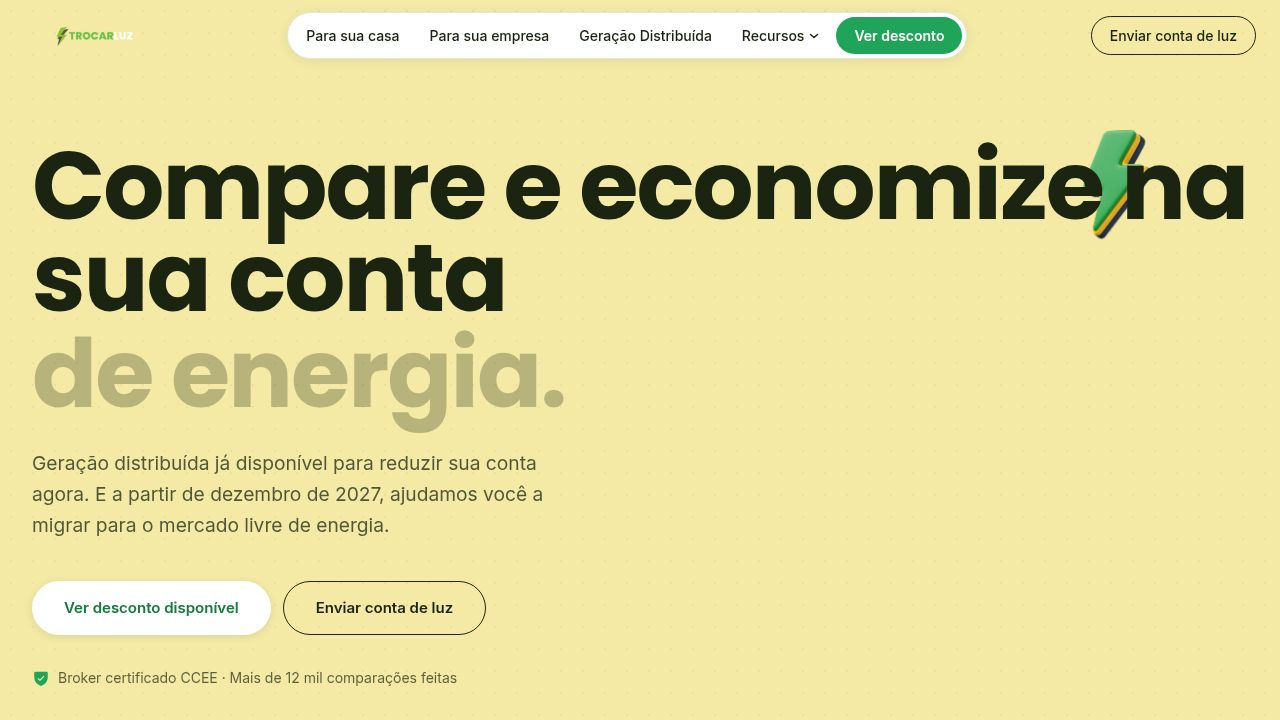
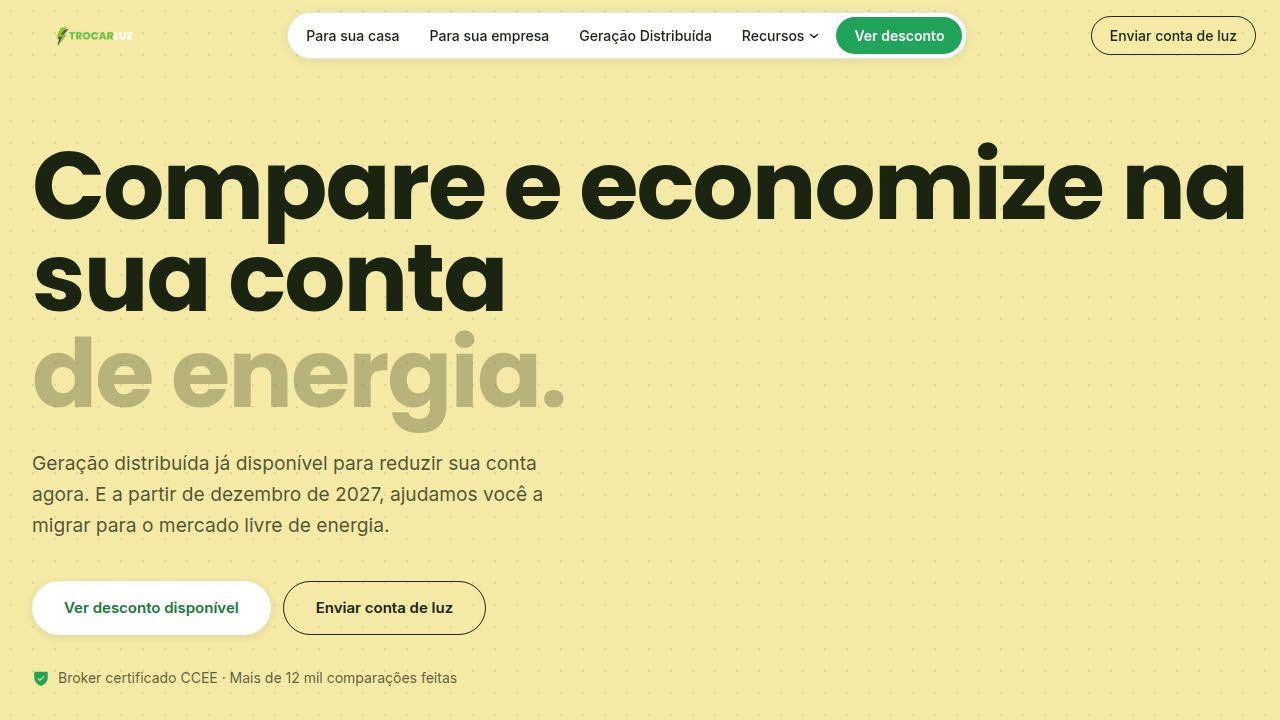
Enhance homepage with dynamic photo collage and improved visual effects
Refactor the homepage's "Por que a TrocarLuz?" section to include a dynamic, multi-axis floating collage of photos and objects using Framer Motion, along with updated CSS for responsive visibility and adjustments to the hero section's dot texture.

Replit-Commit-Author: Agent
Replit-Commit-Session-Id: d264dfc3-22c9-4384-948f-46028f1584a7
Replit-Commit-Checkpoint-Type: full_checkpoint
Replit-Commit-Event-Id: 4aaa1cc5-93b2-4487-a102-46e93dd1459f
Replit-Commit-Screenshot-Url: https://storage.googleapis.com/screenshot-production-us-central1/b2442f56-2080-46f6-a758-ab811e9c51e7/d264dfc3-22c9-4384-948f-46028f1584a7/vYvxFlC
Replit-Helium-Checkpoint-Created: true

Changed region(s): [[0.8438, 0.1833, 0.9062, 0.3361], [0.0938, 0.825, 0.1875, 0.8556], [0.25, 0.825, 0.2812, 0.8556]]

diff --git a/artifacts/trocarluz/src/pages/home.tsx b/artifacts/trocarluz/src/pages/home.tsx
@@ -19,7 +19,7 @@ import { Reveal } from "@/components/reveal";
 
 /* ── Dot texture helper ──────────────────────────────────────────── */
 const DOT_TEXTURE: React.CSSProperties = {
-  backgroundImage: "radial-gradient(circle, rgba(26,36,16,0.05) 1px, transparent 1px)",
+  backgroundImage: "radial-gradient(rgba(26,36,16,0.10) 1.5px, transparent 1.5px)",
   backgroundSize: "22px 22px",
 };
 
@@ -151,6 +151,95 @@ function FloatImg({
         }}
       />
     </div>
+  );
+}
+
+/* ── CollageTile — floating photo/object for Payard-style "Por que" ─ */
+interface CollageTileProps {
+  src: string;
+  size: string;
+  baseRot: number;
+  delay: number;
+  duration: number;
+  parallaxRange: [number, number];
+  style?: React.CSSProperties;
+  className?: string;
+  energetic?: boolean;
+  isPhoto?: boolean;
+}
+
+function CollageTile({
+  src,
+  size,
+  baseRot,
+  delay,
+  duration,
+  parallaxRange,
+  style,
+  className,
+  energetic = false,
+  isPhoto = false,
+}: CollageTileProps) {
+  const prefersReduced = useReducedMotion();
+  const wrapRef = useRef<HTMLDivElement>(null);
+  const { scrollYProgress } = useScroll({
+    target: wrapRef,
+    offset: ["start end", "end start"],
+  });
+  const scrollY = useTransform(scrollYProgress, [0, 1], parallaxRange);
+
+  const floatAnim = prefersReduced
+    ? {}
+    : energetic
+    ? {
+        y: [0, -22, 0, -12, 0],
+        x: [0, 10, 0, -6, 0],
+        rotate: [baseRot - 5, baseRot + 5, baseRot - 3, baseRot + 4, baseRot - 5],
+        scale: [1, 1.05, 1, 1.03, 1],
+      }
+    : {
+        y: [0, -14, 0, -8, 0],
+        x: [0, 6, 0, -5, 0],
+        rotate: [baseRot - 2, baseRot + 2.5, baseRot - 1, baseRot + 1.5, baseRot - 2],
+        scale: [1, 1.03, 1, 1.02, 1],
+      };
+
+  const floatTransition = prefersReduced
+    ? {}
+    : { duration, ease: "easeInOut" as const, repeat: Infinity, delay };
+
+  return (
+    <motion.div
+      ref={wrapRef}
+      className={className}
+      style={{
+        position: "absolute",
+        width: size,
+        height: size,
+        zIndex: 1,
+        ...(prefersReduced ? {} : { y: scrollY }),
+        ...style,
+      }}
+    >
+      <motion.img
+        src={src}
+        alt=""
+        loading="lazy"
+        decoding="async"
+        animate={floatAnim}
+        transition={floatTransition}
+        style={{
+          width: "100%",
+          height: "100%",
+          objectFit: "cover",
+          borderRadius: isPhoto ? "22%" : "20px",
+          boxShadow: "0 18px 40px rgba(0,0,0,.12)",
+          display: "block",
+          transformBox: "fill-box",
+          transformOrigin: "center",
+        }}
+      />
+    </motion.div>
   );
 }
 
@@ -1445,91 +1534,79 @@ export default function Home() {
         }}
       >
         <div style={{ maxWidth: "var(--container)", margin: "0 auto" }}>
-          {/* Heading + ghost word + floating objects */}
-          <div style={{ position: "relative", marginBottom: "clamp(48px, 7vw, 72px)" }}>
-            {/* Ghost "Economia" — parallaxed */}
-            <motion.div
-              aria-hidden="true"
-              style={{
-                position: "absolute",
-                bottom: "-20px",
-                left: "50%",
-                x: "-50%",
-                y: economiaY,
-                fontFamily: "var(--app-font-display)",
-                fontWeight: 700,
-                fontSize: "clamp(5rem, 18vw, 14rem)",
-                color: "var(--env-soft)",
-                lineHeight: 1,
-                letterSpacing: "-0.03em",
-                whiteSpace: "nowrap",
-                pointerEvents: "none",
-                zIndex: 0,
-              }}
-            >
-              Economia
-            </motion.div>
+          {/* Collage container — tiles in outer ring, heading centered (Payard style) */}
+          <div
+            style={{
+              position: "relative",
+              minHeight: "clamp(320px, 50vw, 480px)",
+              display: "flex",
+              alignItems: "center",
+              justifyContent: "center",
+              marginBottom: "clamp(48px, 7vw, 72px)",
+            }}
+          >
+            {/* ── 4 corner tiles — visible on all sizes ── */}
+            <CollageTile
+              src="/img/person-11.webp"
+              size="clamp(96px,16vw,200px)"
+              baseRot={-4}
+              delay={0.2}
+              duration={7.5}
+              parallaxRange={[35, -45]}
+              isPhoto
+              style={{ top: 0, left: 0 }}
+            />
+            <CollageTile
+              src="/img/hero-empresa.webp"
+              size="clamp(96px,14vw,165px)"
+              baseRot={5}
+              delay={1.2}
+              duration={8}
+              parallaxRange={[20, -50]}
+              style={{ top: 0, right: 0 }}
+            />
+            <CollageTile
+              src="/img/hero-casa.webp"
+              size="clamp(96px,13vw,158px)"
+              baseRot={4}
+              delay={1.7}
+              duration={7}
+              parallaxRange={[25, -45]}
+              style={{ bottom: 0, left: 0 }}
+            />
+            <CollageTile
+              src="/img/obj-mercado.webp"
+              size="clamp(96px,13vw,155px)"
+              baseRot={-3}
+              delay={0.9}
+              duration={8.5}
+              parallaxRange={[45, -35]}
+              style={{ bottom: 0, right: 0 }}
+            />
+            {/* ── Accent objects — hide on mobile ── */}
+            <CollageTile
+              src="/img/obj-raio.webp"
+              size="clamp(70px,7.5vw,90px)"
+              baseRot={8}
+              delay={0}
+              duration={7}
+              parallaxRange={[30, -30]}
+              energetic
+              className="collage-hide-mobile"
+              style={{ top: "clamp(150px,24vw,190px)", left: "clamp(80px,14vw,200px)" }}
+            />
+            <CollageTile
+              src="/img/obj-fazenda.webp"
+              size="clamp(80px,9vw,110px)"
+              baseRot={-5}
+              delay={1.4}
+              duration={7}
+              parallaxRange={[20, -30]}
+              className="collage-hide-mobile"
+              style={{ bottom: "clamp(150px,24vw,190px)", right: "clamp(80px,14vw,200px)" }}
+            />
 
-            {/* 4 corner objects — strictly in outer corners, clear of heading */}
-            {[
-              {
-                src: "/img/obj-raio.webp",
-                size: 100,
-                floatVariant: "a" as const,
-                delay: "0s",
-                strength: 14,
-                pos: { top: "24px", left: "24px" },
-                rot: "-8deg",
-              },
-              {
-                src: "/img/hero-empresa.webp",
-                size: 110,
-                floatVariant: "b" as const,
-                delay: "0.7s",
-                strength: 18,
-                pos: { top: "24px", right: "24px" },
-                rot: "6deg",
-              },
-              {
-                src: "/img/hero-casa.webp",
-                size: 88,
-                floatVariant: "a" as const,
-                delay: "1.4s",
-                strength: 10,
-                pos: { bottom: "24px", left: "24px" },
-                rot: "-4deg",
-              },
-              {
-                src: "/img/obj-mercado.webp",
-                size: 96,
-                floatVariant: "b" as const,
-                delay: "0.4s",
-                strength: 16,
-                pos: { bottom: "24px", right: "24px" },
-                rot: "8deg",
-              },
-            ].map((obj, i) => (
-              <FloatImg
-                key={i}
-                src={obj.src}
-                alt=""
-                width={obj.size}
-                height={obj.size}
-                floatVariant={obj.floatVariant}
-                animDelay={obj.delay}
-                parallaxStrength={obj.strength}
-                className="pq-obj"
-                style={{
-                  position: "absolute",
-                  zIndex: 1,
-                  transform: `rotate(${obj.rot})`,
-                  pointerEvents: "none",
-                  ...obj.pos,
-                }}
-              />
-            ))}
-
-            {/* Heading — centred, above ghost */}
+            {/* Heading — centered, always above tiles */}
             <Reveal>
               <h2
                 id="porque-heading"
@@ -1542,9 +1619,9 @@ export default function Home() {
                   color: "var(--ink)",
                   letterSpacing: "-0.02em",
                   textAlign: "center",
-                  padding: "clamp(20px, 4vw, 40px) clamp(120px, 18vw, 220px)",
+                  padding: "clamp(16px, 3vw, 40px) clamp(80px, 14vw, 220px)",
                   lineHeight: 1.1,
-                  marginBottom: 0,
+                  margin: 0,
                 }}
               >
                 Por que a TrocarLuz?

diff --git a/artifacts/trocarluz/src/index.css b/artifacts/trocarluz/src/index.css
@@ -455,6 +455,16 @@
   .pq-obj { display: block; }
 }
 
+/* ── Collage tile responsive visibility ──────────────────────────── */
+.collage-hide-mobile { display: none !important; }
+@media (min-width: 769px) {
+  .collage-hide-mobile { display: block !important; }
+}
+.collage-hide-tablet { display: none !important; }
+@media (min-width: 1025px) {
+  .collage-hide-tablet { display: block !important; }
+}
+
 /* ── 3D object float animation ───────────────────────────────────── */
 @keyframes obj-float-a {
   from { transform: translateY(0px) rotate(-1deg); }